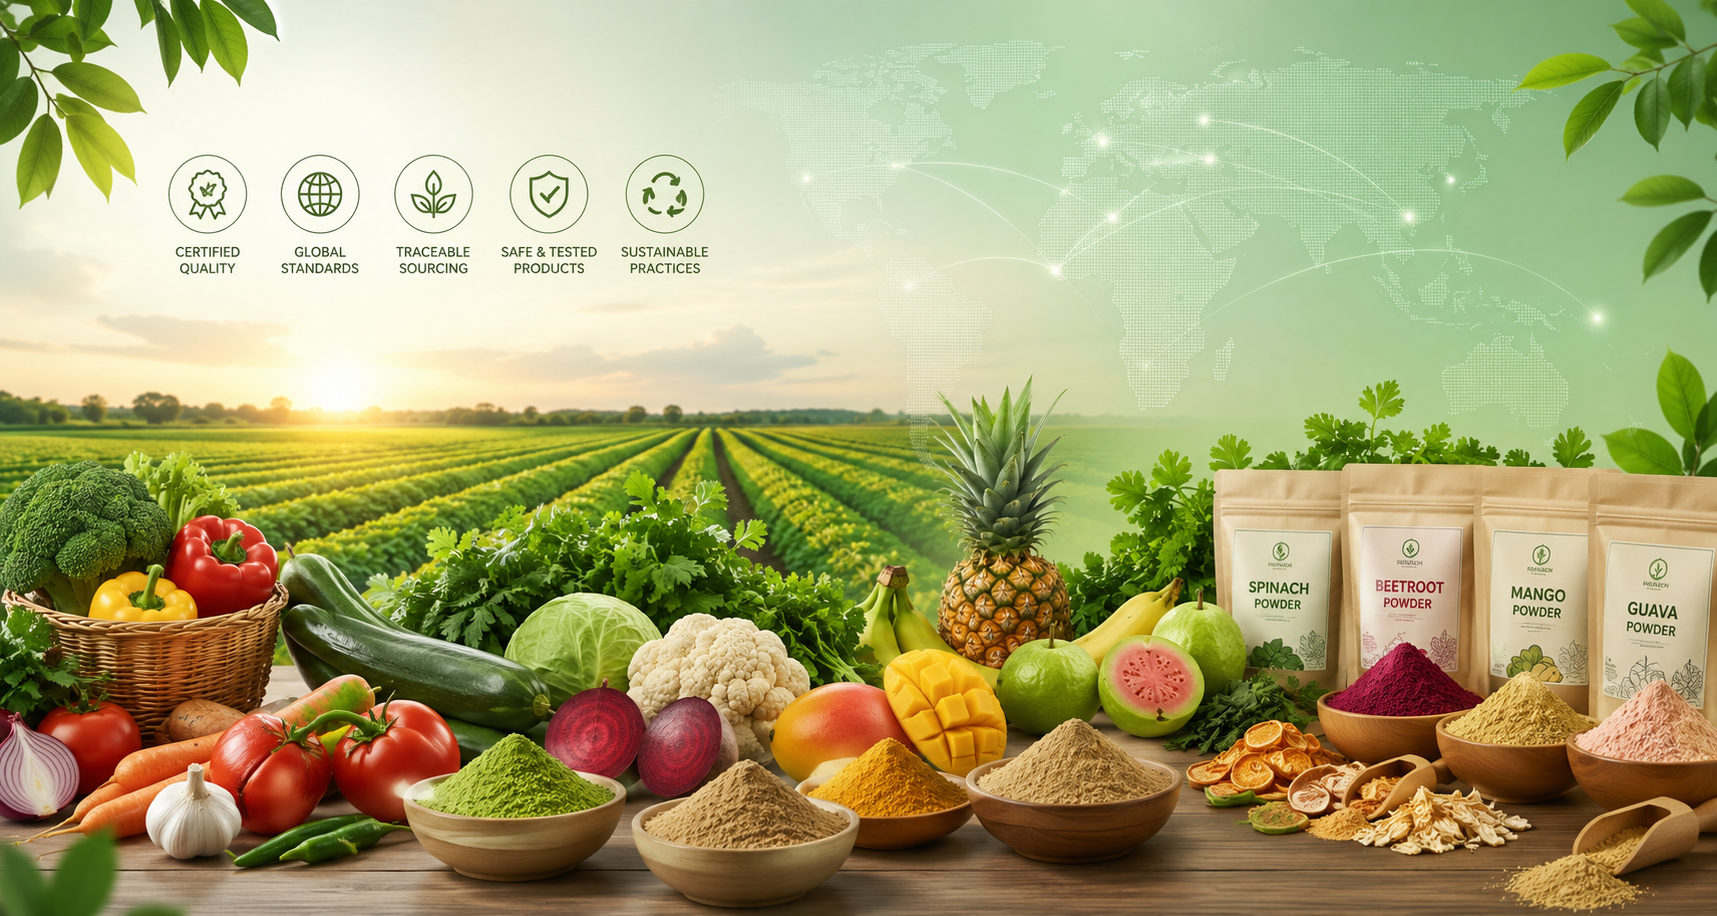
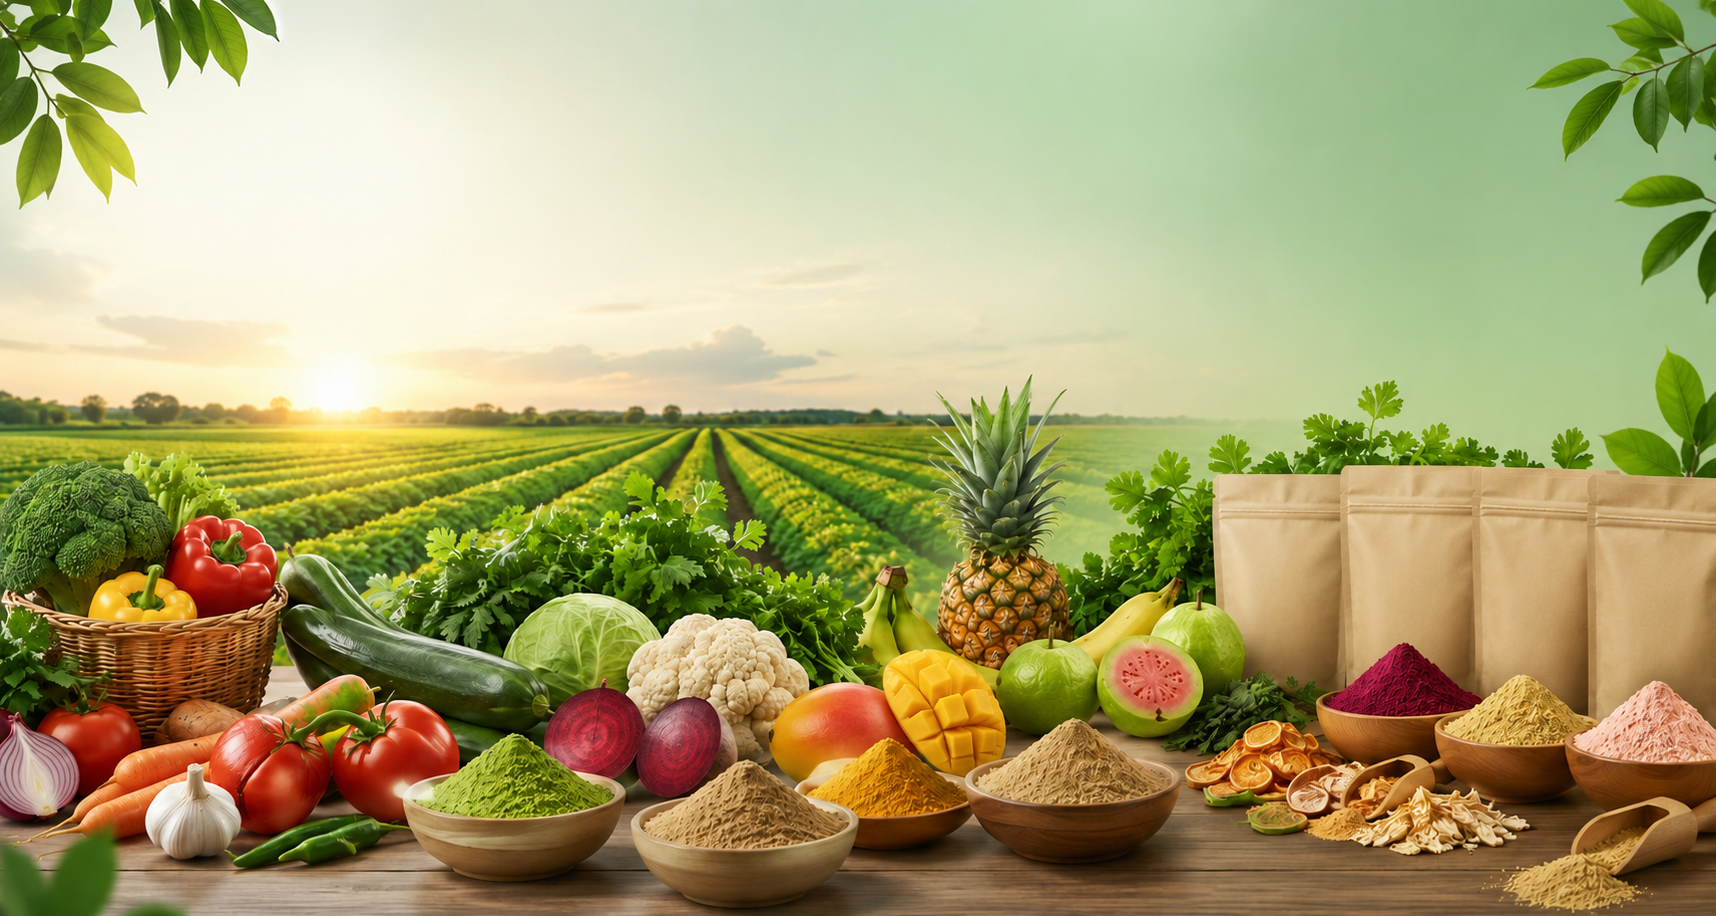
Updated project

diff --git a/src/app/quality/page.jsx b/src/app/quality/page.jsx
@@ -183,12 +183,12 @@ export default function QualityPage() {
 
         <div className="max-w-7xl mx-auto grid lg:grid-cols-2 gap-16 items-center relative z-10">
           <div>
-            <div className="inline-flex items-center gap-2 px-4 py-2 rounded-full bg-white/10 border border-white/20 text-green-100 mb-26 backdrop-blur-md">
+            <div className="inline-flex items-center gap-2 px-4 py-2 rounded-full bg-white/10 border border-white/20 text-green-100 mb-10 backdrop-blur-md">
               <ShieldCheck className="w-5 h-5" />
               Export Certified Manufacturing
             </div>
 
-            <h1 className="text-4xl md:text-5xl xl:text-6xl font-black leading-tight text-white">
+            <h1 className="text-5xl md:text-6xl xl:text-7xl font-black leading-tight text-white">
               Export-Grade
               <span className="block text-green-300">Quality at Every Stage</span>
             </h1>
@@ -277,9 +277,6 @@ export default function QualityPage() {
                 key={index}
                 className="group bg-white rounded-[32px] overflow-hidden shadow-xl border border-gray-100 hover:-translate-y-2 transition duration-500"
               >
-                <div
-                  className={`h-3 bg-gradient-to-r ${cert.color}`}
-                ></div>
 
                 <div className="p-8">
                   <div className="w-16 h-16 rounded-2xl bg-green-100 flex items-center justify-center mb-6">
@@ -303,10 +300,10 @@ export default function QualityPage() {
                       {cert.validity}
                     </span>
 
-                    <button className="inline-flex items-center gap-2 px-4 py-2 rounded-xl bg-green-700 text-white hover:bg-green-800 transition">
+                    {/* <button className="inline-flex items-center gap-2 px-4 py-2 rounded-xl bg-green-700 text-white hover:bg-green-800 transition">
                       <Download className="w-4 h-4" />
                       PDF
-                    </button>
+                    </button> */}
                   </div>
                 </div>
               </div>
@@ -318,80 +315,130 @@ export default function QualityPage() {
       {/* QUALITY PROCESS */}
       <section className="py-28 bg-[#edf7ec] px-6 lg:px-16">
         <div className="max-w-7xl mx-auto">
-          <div className="grid lg:grid-cols-2 gap-20 items-center">
-            <div>
-              <span className="text-green-700 font-semibold uppercase tracking-[0.25em]">
+
+            {/* CENTER HEADING */}
+            <div className="text-center max-w-4xl mx-auto mb-20">
+            <span className="text-green-700 font-semibold uppercase tracking-[0.25em]">
                 Quality Workflow
-              </span>
+            </span>
 
-              <h2 className="mt-6 text-4xl md:text-5xl font-black text-[#143523] leading-tight">
+            <h2 className="mt-6 text-4xl md:text-5xl font-black text-[#143523] leading-tight">
                 Multi-Level Quality Control From Farm to Export
-              </h2>
+            </h2>
 
-              <p className="mt-6 text-lg text-gray-600 leading-relaxed">
+            <p className="mt-6 text-lg text-gray-600 leading-relaxed">
                 We maintain strict inspection systems at every stage of the
                 supply chain to guarantee food safety, consistency and export
                 readiness.
-              </p>
+            </p>
+            </div>
 
-              <div className="mt-12 space-y-8">
+            {/* TWO GRIDS */}
+            <div className="grid lg:grid-cols-2 gap-10 items-start">
+
+            {/* LEFT GRID */}
+            <div className="space-y-8">
                 {qualitySteps.map((step, index) => {
-                  const Icon = step.icon;
+                const Icon = step.icon;
 
-                  return (
+                return (
                     <div
-                      key={index}
-                      className="flex gap-5 bg-white p-6 rounded-3xl shadow-lg"
+                    key={index}
+                    className="group flex gap-5 bg-white p-8 rounded-[32px] shadow-xl border border-green-100 hover:-translate-y-2 hover:shadow-2xl transition duration-500"
                     >
-                      <div className="w-16 h-16 rounded-2xl bg-green-100 flex items-center justify-center shrink-0">
-                        <Icon className="w-8 h-8 text-green-700" />
-                      </div>
+                    <div className="w-16 h-16 rounded-2xl bg-green-100 flex items-center justify-center shrink-0 group-hover:bg-green-700 transition">
+                        <Icon className="w-8 h-8 text-green-700 group-hover:text-white transition" />
+                    </div>
 
-                      <div>
-                        <h3 className="text-xl font-bold text-[#163825]">
-                          {step.title}
+                    <div>
+                        <h3 className="text-2xl font-bold text-[#163825]">
+                        {step.title}
                         </h3>
 
-                        <p className="mt-2 text-gray-600 leading-relaxed">
-                          {step.desc}
+                        <p className="mt-3 text-gray-600 leading-relaxed">
+                        {step.desc}
                         </p>
-                      </div>
                     </div>
-                  );
+                    </div>
+                );
                 })}
-              </div>
             </div>
 
-            <div className="relative">
-              <div className="absolute -top-10 -left-10 w-40 h-40 bg-green-300/20 rounded-full blur-3xl"></div>
+            {/* RIGHT GRID */}
+            <div className="relative h-full">
+                
+                {/* GLOW */}
+                <div className="absolute -top-10 -left-10 w-40 h-40 bg-green-300/20 rounded-full blur-3xl"></div>
 
-              <div className="relative bg-white rounded-[40px] shadow-2xl p-10 border border-green-100">
-                <div className="flex items-center gap-3 mb-8">
-                  <ShieldCheck className="w-10 h-10 text-green-700" />
-                  <div>
-                    <h3 className="text-2xl font-bold text-[#163825]">
-                      Product Integrity Assurance
-                    </h3>
-                    <p className="text-gray-500">
-                      Every shipment verified before dispatch.
-                    </p>
-                  </div>
-                </div>
+                <div className="relative bg-white rounded-[40px] shadow-2xl p-10 border border-green-100 h-full">
 
-                <div className="space-y-5">
-                  {testingItems.slice(0, 8).map((item, index) => (
-                    <div
-                      key={index}
-                      className="flex items-start gap-3 border-b border-gray-100 pb-4"
-                    >
-                      <CheckCircle2 className="w-5 h-5 text-green-700 mt-1" />
-                      <span className="text-gray-700">{item}</span>
+                {/* HEADER */}
+                <div className="flex items-center gap-4 mb-10">
+                    <div className="w-16 h-16 rounded-2xl bg-green-100 flex items-center justify-center">
+                    <ShieldCheck className="w-8 h-8 text-green-700" />
                     </div>
-                  ))}
+
+                    <div>
+                    <h3 className="text-3xl font-black text-[#163825]">
+                        Product Integrity Assurance
+                    </h3>
+
+                    <p className="text-gray-500 mt-1">
+                        Every shipment verified before dispatch.
+                    </p>
+                    </div>
                 </div>
-              </div>
+
+                {/* TEST ITEMS */}
+                <div className="grid sm:grid-cols-2 gap-5">
+                    {testingItems.slice(0, 8).map((item, index) => (
+                    <div
+                        key={index}
+                        className="flex items-start gap-3 bg-[#f7fbf5] border border-green-100 rounded-2xl p-5 hover:shadow-lg transition"
+                    >
+                        <CheckCircle2 className="w-5 h-5 text-green-700 mt-1 shrink-0" />
+
+                        <span className="text-gray-700 font-medium">
+                        {item}
+                        </span>
+                    </div>
+                    ))}
+                </div>
+
+                {/* BOTTOM STATS */}
+                <div className="mt-10 grid grid-cols-3 gap-4">
+                    <div className="bg-green-50 rounded-2xl p-5 text-center">
+                    <h4 className="text-2xl font-black text-green-700">
+                        100%
+                    </h4>
+                    <p className="text-sm text-gray-600 mt-1">
+                        Batch Tested
+                    </p>
+                    </div>
+
+                    <div className="bg-green-50 rounded-2xl p-5 text-center">
+                    <h4 className="text-2xl font-black text-green-700">
+                        35+
+                    </h4>
+                    <p className="text-sm text-gray-600 mt-1">
+                        Countries
+                    </p>
+                    </div>
+
+                    <div className="bg-green-50 rounded-2xl p-5 text-center">
+                    <h4 className="text-2xl font-black text-green-700">
+                        24/7
+                    </h4>
+                    <p className="text-sm text-gray-600 mt-1">
+                        Monitoring
+                    </p>
+                    </div>
+                </div>
+
+                </div>
             </div>
-          </div>
+
+            </div>
         </div>
       </section>
 
